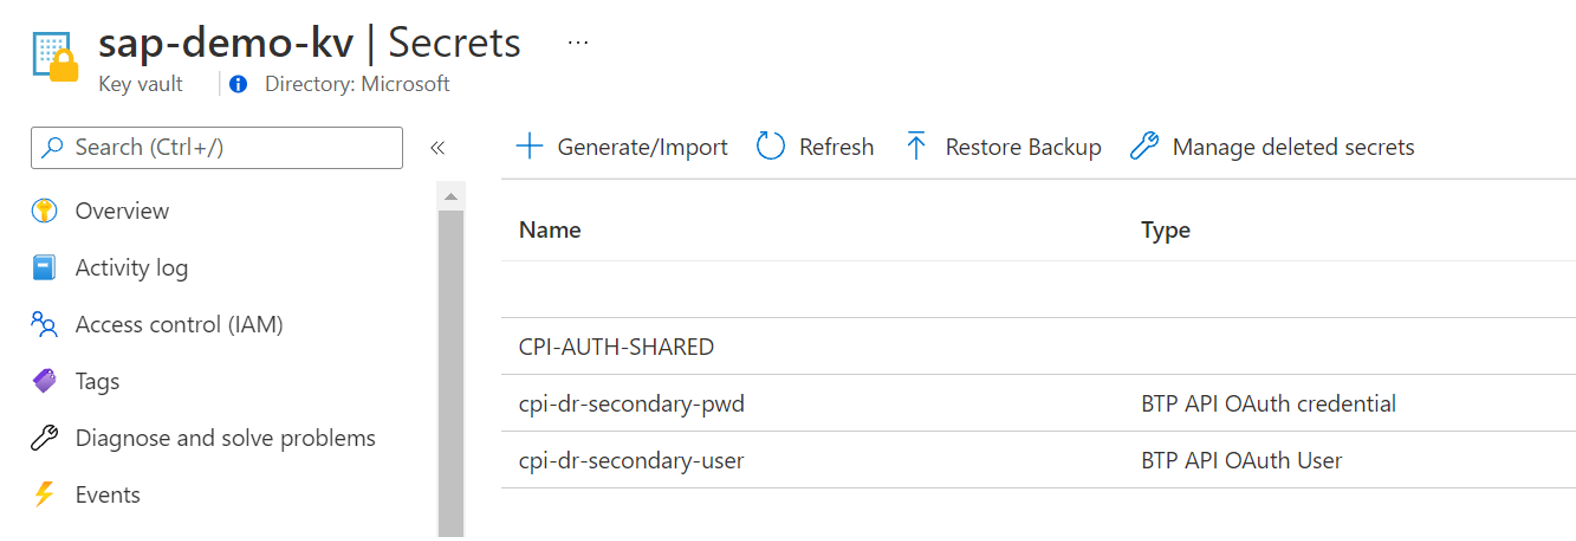
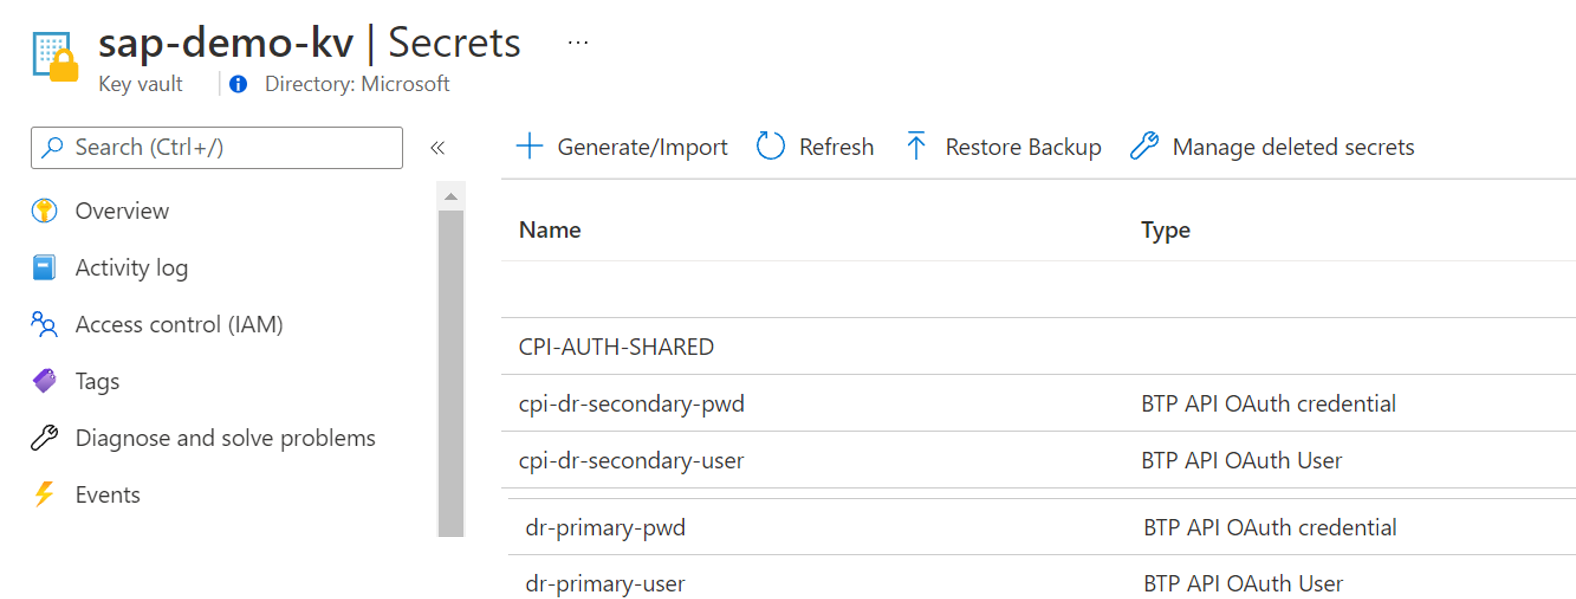
cpi tenant clarification

diff --git a/README.md b/README.md
@@ -22,6 +22,8 @@ SecretSynchLogicApp.json contains the LogicApp template that integrates with Azu
 
 The LogicApp relies on a "secret" naming convention to pull the credentials for the CPI API call. <cpi domain>-usr or -pwd. That eases some of the configuration required and decouples the setting on the LogicApp.
 
+In my example I am running two CPI instances. The first under domain dr-primary and the second under cpi-dr-secondary.
+
 ![Secret list](/keyvault-secret-list.png)
 
 The zip file "ShowSharedSecret.zip" contains an iFlow that reads the CPI credential "CPI-AUTH-SHARED" during runtime. I used to verify the approach and correct setup.
